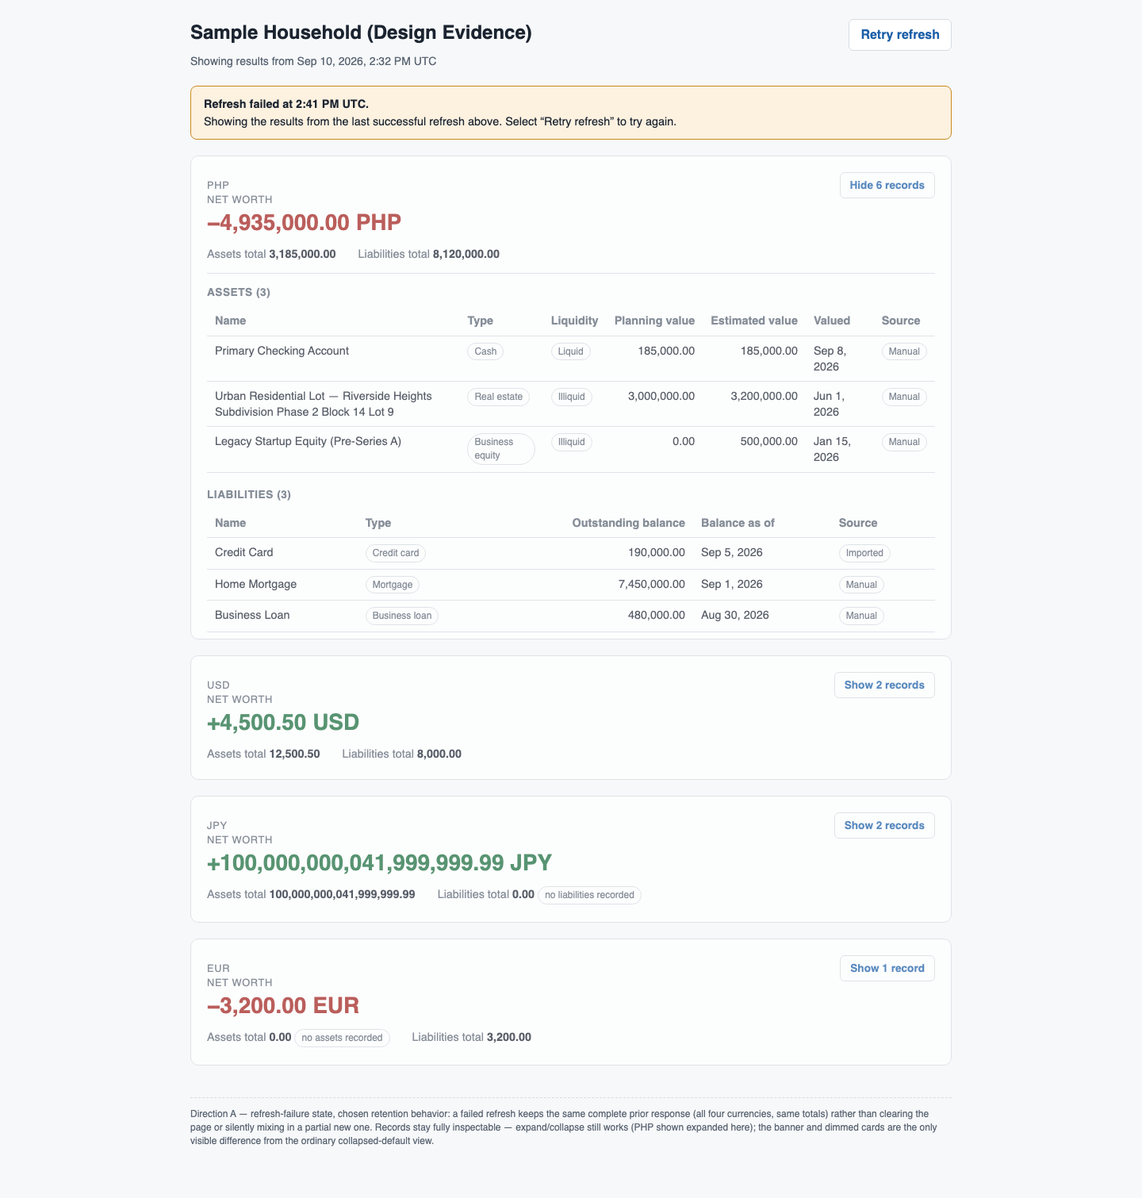
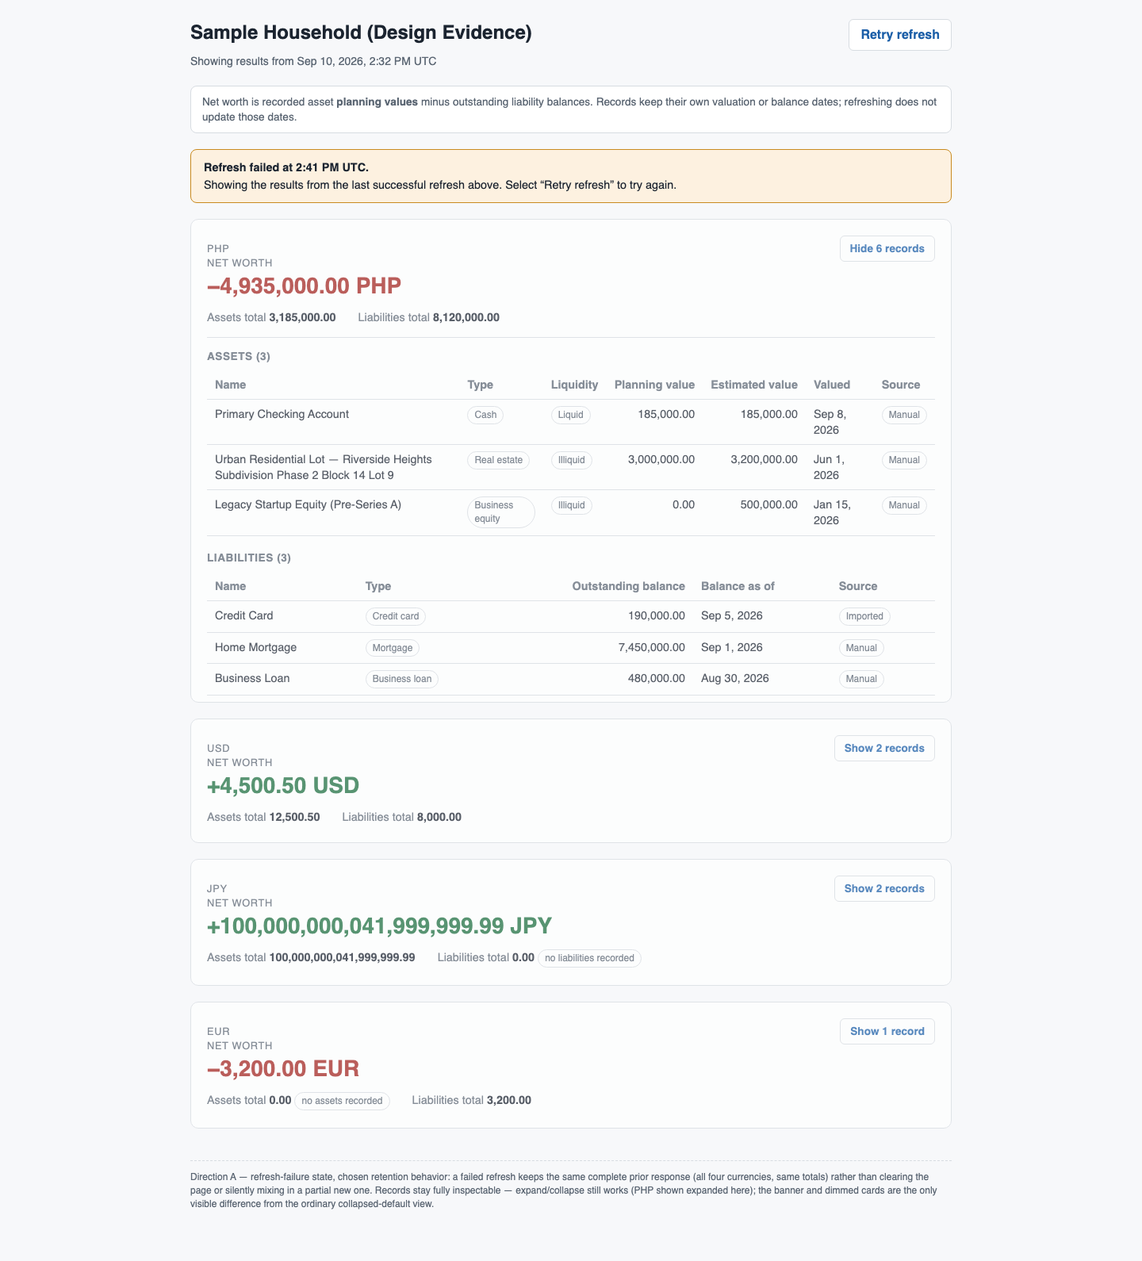
WAP-13: Revise design per independent re-review (VR-001/VR-002 evidence gaps)
Resolves Codex's second RETURNED review of PR #35 (revision 7b7dc28), which
found VR-003 and VR-004 fully resolved but VR-001 and VR-002 only partly
resolved.

- VR-001: the prior 200%-zoom evidence used Chromium's non-standard `zoom`
  CSS property at a 1280px viewport, which visually scales rendering without
  changing the CSS layout viewport media queries see — so it never actually
  exercised the 700px stacked-layout breakpoint, and the screenshot still
  showed the ordinary wide table. Replaced with a real 640px viewport
  (WCAG 1.4.10 convention for testing "a 1280px window at 200% zoom") against
  populated-expanded.html with every currency expanded, including JPY's
  extreme-precision row, explicitly documented as a viewport-reduction
  simulation rather than a literal browser-zoom capture.
- VR-002: error-refresh-failed.html was missing the always-visible explainer
  line present everywhere else, contradicting the brief's own claim; added
  it. Also corrected the explainer's wording everywhere it appears (it read
  as if liabilities also carry a "planning value," which only assets have)
  to the review's suggested precise copy.

./verify.sh: BUILD SUCCESS, 640 tests, unchanged (no application code
touched). Re-verified zero page-level horizontal overflow across all 10
evidence files at 1440/390/640px before regenerating affected screenshots.

Claude-Session: https://claude.ai/code/session_01PGY5KzWDjCzyiVoqrMSDb4

diff --git a/agent/ui/financial-position/evidence/direction-a-currency-cards/populated-expanded.html b/agent/ui/financial-position/evidence/direction-a-currency-cards/populated-expanded.html
@@ -79,7 +79,7 @@
     <button class="refresh-btn" type="button">Refresh</button>
   </header>
   <p class="status-line" role="status" aria-live="polite">Retrieved Sep 10, 2026, 2:32 PM UTC</p>
-  <p class="explainer">Net worth = assets &minus; liabilities, using each record's <strong>planning value</strong> (never its estimated value). Retrieving this page does not change a record's own valuation or balance date &mdash; each record below keeps its own date.</p>
+  <p class="explainer">Net worth is recorded asset <strong>planning values</strong> minus outstanding liability balances. Records keep their own valuation or balance dates; refreshing does not update those dates.</p>
 
   <!-- PHP: expanded, ordinary mixed currency -->
   <section class="card" aria-labelledby="php-heading">
@@ -250,13 +250,13 @@
         <div class="net-worth-label">Net worth</div>
         <div class="net-worth positive"><span class="sr-only">positive</span>100,000,000,041,999,999.99 JPY</div>
       </div>
-      <button class="toggle-btn" type="button" aria-expanded="false" aria-controls="jpy-records">Show 2 records</button>
+      <button class="toggle-btn" type="button" aria-expanded="true" aria-controls="jpy-records">Hide 2 records</button>
     </div>
     <div class="totals-row">
       <span>Assets total <span class="amount">100,000,000,041,999,999.99</span></span>
       <span>Liabilities total <span class="amount">0.00</span> <span class="badge">no liabilities recorded</span></span>
     </div>
-    <div class="records" id="jpy-records" hidden>
+    <div class="records" id="jpy-records">
       <h4>Assets (2)</h4>
       <div class="table-scroll" tabindex="0" role="region" aria-label="JPY assets, scrollable">
       <table class="stackable">
@@ -332,7 +332,7 @@
   </section>
 
   <footer class="evidence-note">
-    Direction A &mdash; expanded-record evidence (not the default state; compare <code>populated-collapsed.html</code>). PHP and EUR start expanded here to show ordinary mixed-currency records and the liabilities-only case (explicit "No assets recorded" line, not a fabricated zero-row table) side by side; USD and JPY stay collapsed for contrast. Below 700px, each record becomes a stacked card (name as title, other fields as labeled rows) instead of a horizontally scrolling table row.
+    Direction A &mdash; expanded-record evidence (not the default state; compare <code>populated-collapsed.html</code>). PHP, JPY and EUR start expanded here to show ordinary mixed-currency records, an extreme exact-decimal amount (JPY's precision-test row), and the liabilities-only case (explicit "No assets recorded" line, not a fabricated zero-row table); USD stays collapsed for contrast. Below 700px, each record becomes a stacked card (name as title, other fields as labeled rows) instead of a horizontally scrolling table row.
   </footer>
 </div>
 <script>

diff --git a/agent/ui/financial-position/evidence/direction-a-currency-cards/populated-collapsed.html b/agent/ui/financial-position/evidence/direction-a-currency-cards/populated-collapsed.html
@@ -55,7 +55,7 @@
     <button class="refresh-btn" type="button">Refresh</button>
   </header>
   <p class="status-line" role="status" aria-live="polite">Retrieved Sep 10, 2026, 2:32 PM UTC</p>
-  <p class="explainer">Net worth = assets &minus; liabilities, using each record's <strong>planning value</strong> (never its estimated value). Retrieving this page does not change a record's own valuation or balance date &mdash; expand a currency to see each record's date.</p>
+  <p class="explainer">Net worth is recorded asset <strong>planning values</strong> minus outstanding liability balances. Records keep their own valuation or balance dates; refreshing does not update those dates.</p>
 
   <section class="card" aria-labelledby="php-heading">
     <div class="card-head">

diff --git a/agent/ui/financial-position/evidence/direction-a-currency-cards/error-refresh-failed.html b/agent/ui/financial-position/evidence/direction-a-currency-cards/error-refresh-failed.html
@@ -35,6 +35,7 @@
     <button class="refresh-btn" type="button">Retry refresh</button>
   </header>
   <p class="status-line" role="status" aria-live="polite">Showing results from Sep 10, 2026, 2:32 PM UTC</p>
+  <p class="explainer">Net worth is recorded asset <strong>planning values</strong> minus outstanding liability balances. Records keep their own valuation or balance dates; refreshing does not update those dates.</p>
 
   <div class="banner" role="alert">
     <strong>Refresh failed at 2:41 PM UTC.</strong>

diff --git a/agent/ui/financial-position/design-brief.md b/agent/ui/financial-position/design-brief.md
@@ -63,7 +63,7 @@
 
 - Recommendation: **Direction A — currency-first summary cards, expandable holdings.**
 - Reasoning: it is the only direction whose default (unexpanded) view already matches the parent brief's stated two-step flow — see totals by currency, then inspect sources — without requiring the user to scan across a disconnected summary bar (Direction B) or hunt through a dense table for the subtotal row (Direction C). It also has the cleanest narrow-width behavior of the three: cards were already a stacking layout before any responsive work is added, and starting each card collapsed keeps the first mobile screen to four short headlines instead of six-plus columns of detail. Direction C's density is real but optimizes for a power-user audit action this task's parent brief does not ask for (browsing/filtering every record at once); that is better served as a later, explicit power view than as the default first screen.
-- Collapsed default (the actual first-load state): `evidence/direction-a-currency-cards/populated-collapsed.html`, `screenshots/direction-a-populated-collapsed-{wide,narrow}.png`. All four currency cards collapsed; each headline is visibly labeled "Net worth" (not screen-reader-only), and a short always-visible explainer line states that totals use recorded planning values and that retrieval time does not change a record's own date.
+- Collapsed default (the actual first-load state): `evidence/direction-a-currency-cards/populated-collapsed.html`, `screenshots/direction-a-populated-collapsed-{wide,narrow}.png`. All four currency cards collapsed; each headline is visibly labeled "Net worth" (not screen-reader-only), and a short always-visible explainer line states net worth precisely ("recorded asset planning values minus outstanding liability balances") and that retrieval time does not change a record's own date.
 - Expanded records (record-inspection evidence): `evidence/direction-a-currency-cards/populated-expanded.html`, `screenshots/direction-a-populated-expanded-{wide,narrow}.png`. Same four currencies; PHP (ordinary mixed currency) and EUR (liabilities-only — explicit empty asset side) start expanded to show record inspection for both cases side by side; USD and JPY (assets-only) stay collapsed for contrast.
 - Narrow layout (390px): each expanded record renders as a stacked card — full-width record name as the title, then labeled key/value rows for type, liquidity, values, dates and source — instead of a horizontal table row. This replaces the letter-by-letter name wrapping the first revision had (R1 below) with normally word-wrapped text at full width, and needs no horizontal scrolling at all in this evidence's widths.
 - Loading state: `evidence/direction-a-currency-cards/loading.html` / `screenshots/direction-a-loading-wide.png`. Four skeleton cards (matching the four-currency dataset), `aria-hidden`; the status line reads "Loading financial position…" via `role="status" aria-live="polite"`. No number, zero or blank total is ever rendered before real data arrives.
@@ -73,23 +73,30 @@
 - Missing configuration: `evidence/direction-a-currency-cards/configuration-missing.html` / `screenshots/direction-a-configuration-missing-wide.png`. No `HOUSEHOLD_ID` configured at all; shown before any household name is known (no card layout, no household-scoped heading).
 - Configured household not found: `evidence/direction-a-currency-cards/configuration-not-found.html` / `screenshots/direction-a-configuration-not-found-wide.png`. A distinct message from the missing-configuration case — names the specific configured ID that returned 404, since the fix differs (correct the ID vs. set one at all).
 - Keyboard-focus evidence: `screenshots/direction-a-keyboard-focus-{wide,narrow}.png` — real `Tab`-key navigation (not a simulated `:focus` state) from page load to the first record-toggle button, showing the visible focus ring.
-- 200%-zoom evidence: `screenshots/direction-a-zoom200-wide.png` — a 1280px window (the layout viewport a browser gives a page at 200% zoom is roughly its unzoomed width; here emulated directly via Chromium's `zoom: 2` on a 1280px viewport) confirmed to have zero horizontal overflow (`document.documentElement.scrollWidth === clientWidth === 1280`) and to reflow to the stacked record layout rather than requiring two-dimensional scrolling.
-- Accessibility considerations: every amount uses `font-variant-numeric: tabular-nums`; negative/positive net worth is marked with an explicit `−`/`+` glyph plus visible "NET WORTH" label text, not color or screen-reader-only text alone; expand/collapse uses real `<button>` elements with `aria-expanded`/`aria-controls`, keyboard-operable with no custom key handling needed; a horizontally-scrollable record region is a `role="region"` with `tabindex="0"` and its own `aria-label`, and gets a distinct visible focus ring so a keyboard user knows the region itself is focused before scrolling it; the status/refresh-failure line is an `aria-live` region so screen-reader users hear load/refresh outcomes without navigating to find them; visible focus rings (`:focus-visible`, 3px, not removed) on every interactive element; no fixed pixel width on any container that would break 200% browser zoom. A large exact-decimal net-worth headline (e.g. the JPY case) is a single long token with no internal spaces — it needs `overflow-wrap: anywhere` so it wraps within itself at narrow widths instead of forcing page-level horizontal scroll; verify with `document.documentElement.scrollWidth` against the viewport width, not just a visual screenshot check, since a downscaled preview image can hide overflow pixels or a barely-readable-but-technically-non-overflowing layout (R1 below).
+- 200%-zoom reflow evidence (simulation, not a literal browser-zoom capture — see R2 below): `screenshots/direction-a-reflow-200pct-640.png`, a real 640px viewport against `populated-expanded.html` with every currency's records expanded, including JPY's extreme-precision row. Per the WCAG 1.4.10 reflow-testing convention, a browser at 200% zoom gives a page a CSS layout viewport roughly half its unzoomed width, so testing "a 1280px window at 200% zoom" is done by testing a 640px viewport directly. Confirmed zero horizontal overflow (`document.documentElement.scrollWidth === clientWidth === 640`) and correct reflow into the stacked record layout, including the extreme JPY amount, at that width.
+- Accessibility considerations: every amount uses `font-variant-numeric: tabular-nums`; negative/positive net worth is marked with an explicit `−`/`+` glyph plus visible "NET WORTH" label text, not color or screen-reader-only text alone; expand/collapse uses real `<button>` elements with `aria-expanded`/`aria-controls`, keyboard-operable with no custom key handling needed; a horizontally-scrollable record region is a `role="region"` with `tabindex="0"` and its own `aria-label`, and gets a distinct visible focus ring so a keyboard user knows the region itself is focused before scrolling it; the status/refresh-failure line is an `aria-live` region so screen-reader users hear load/refresh outcomes without navigating to find them; visible focus rings (`:focus-visible`, 3px, not removed) on every interactive element; no fixed pixel width on any container that would break 200% browser zoom — verified as a reduced-layout-viewport reflow simulation (640px, see the 200%-zoom bullet above), not a literal OS/browser zoom capture; be explicit about that distinction when citing this evidence, since claiming literal browser zoom without capturing it is itself a defect (R2 below). A large exact-decimal net-worth headline (e.g. the JPY case) is a single long token with no internal spaces — it needs `overflow-wrap: anywhere` so it wraps within itself at narrow widths instead of forcing page-level horizontal scroll; verify with `document.documentElement.scrollWidth` against the viewport width, not just a visual screenshot check, since a downscaled preview image can hide overflow pixels or a barely-readable-but-technically-non-overflowing layout (R1 below).
 
 ## Revision 1 (resolves independent review VR-001 through VR-004)
 
 Codex's independent review of PR #35 (revision `9718f80`) returned `RETURNED` with three `BLOCKING` findings and one `RECOMMENDED` finding, retaining Direction A for revision. Full findings are recorded on the WAP-13 Jira issue (2026-09-10). Resolution:
 
-- **VR-001 (BLOCKING — mobile records unreadable).** At 390px, the original single horizontally-scrolling table squeezed the name column so narrow that names broke letter-by-letter ("Prima / ry / Chec / king / Acco / unt"); passing a page-level `scrollWidth` check didn't establish the *records* were usable, only that the *page* wasn't overflowing. Fixed by replacing the narrow-width table with a stacked-card record layout (`table.stackable` in `evidence/shared.css`, applied below 700px): each record becomes its own bordered block with the name as a full-width title and other fields as labeled rows, so names wrap normally instead of being squeezed into a fixed column. Added `tabindex="0"` + `role="region"` + `aria-label` to every record scroll container (for widths where horizontal scrolling could still occur) with its own visible focus ring. New evidence: `populated-expanded.html` narrow screenshots (readable stacked records), `direction-a-keyboard-focus-*.png` (real Tab-key focus), `direction-a-zoom200-wide.png` (200% zoom, confirmed no two-dimensional scrolling).
-- **VR-002 (BLOCKING — headline meaning hidden).** "Net worth" was previously only in `.sr-only` text, and the planning-value/retrieval-time explanation only existed inside expanded records (invisible by default). Fixed: every card now has a visible "NET WORTH" label above the figure, and a short always-visible explainer line ("Net worth = assets − liabilities, using each record's planning value... retrieving this page does not change a record's own valuation or balance date") sits under the status line on every populated/error state, visible without expanding anything. Added the true collapsed-default state as its own file (`populated-collapsed.html`) with wide and narrow evidence, separate from the expanded-record evidence (`populated-expanded.html`), so both are now independently reviewable.
+- **VR-001 (BLOCKING — mobile records unreadable).** At 390px, the original single horizontally-scrolling table squeezed the name column so narrow that names broke letter-by-letter ("Prima / ry / Chec / king / Acco / unt"); passing a page-level `scrollWidth` check didn't establish the *records* were usable, only that the *page* wasn't overflowing. Fixed by replacing the narrow-width table with a stacked-card record layout (`table.stackable` in `evidence/shared.css`, applied below 700px): each record becomes its own bordered block with the name as a full-width title and other fields as labeled rows, so names wrap normally instead of being squeezed into a fixed column. Added `tabindex="0"` + `role="region"` + `aria-label` to every record scroll container (for widths where horizontal scrolling could still occur) with its own visible focus ring. New evidence: `populated-expanded.html` narrow screenshots (readable stacked records), `direction-a-keyboard-focus-*.png` (real Tab-key focus). The first attempt at 200%-zoom evidence was itself found incorrect on re-review — see R2 below.
+- **VR-002 (BLOCKING — headline meaning hidden).** "Net worth" was previously only in `.sr-only` text, and the planning-value/retrieval-time explanation only existed inside expanded records (invisible by default). Fixed: every card now has a visible "NET WORTH" label above the figure, and a short always-visible explainer line sits under the status line on every populated state, visible without expanding anything. Added the true collapsed-default state as its own file (`populated-collapsed.html`) with wide and narrow evidence, separate from the expanded-record evidence (`populated-expanded.html`), so both are now independently reviewable. This revision's explainer wording was itself found imprecise on re-review (it read as if liabilities also carry a "planning value") — see R2 below.
 - **VR-003 (BLOCKING — failure/one-sided states unspecified).** Three gaps, all fixed: (1) added `error-first-load.html` for an initial network/server failure with no prior data — retry action, no fabricated card or total, distinct from the retained-stale-data case; (2) added a fourth synthetic currency, EUR, that is liabilities-only (zero asset total, explicit "No assets recorded in EUR" line, negative net worth), covering the liabilities-only case the dataset previously lacked (it only had the assets-only JPY case); (3) rebuilt the refresh-failure evidence (`error-refresh-failed.html`, renamed from `error.html`) to show the *same complete* four-currency response as the populated states with working expand/collapse (previously it silently dropped the JPY group and had no record controls at all); (4) split the configuration state into two distinct files/messages — `configuration-missing.html` (nothing configured) and `configuration-not-found.html` (a specific configured ID returned 404, named in the message) — rather than one generic message covering both.
 - **VR-004 (RECOMMENDED — process assurances in household copy).** Removed engineering-assurance phrasing from on-screen text (e.g. "this view never estimates or fabricates a starting balance", "this page never invents household data") from `empty.html` and `configuration-missing.html`; that reasoning now lives only in this brief and its evidence-note footers, not in copy a household would read. Also: the stale PR reference to the retired `implementation-log.md` no longer applies — that file (root and feature-local alike) was removed from the repository entirely in a separate, unrelated change; the PR description here has been corrected to stop citing it.
+
+## Revision 2 (resolves re-review VR-001/VR-002 evidence gaps)
+
+Codex's independent re-review of PR #35 (revision `7b7dc28`) returned `RETURNED` again (2026-09-11), finding VR-003 and VR-004 fully resolved but VR-001 and VR-002 only partly resolved — the design fixes themselves were sound, but two pieces of evidence were wrong or incomplete:
+
+- **VR-001 (PARTLY RESOLVED → resolved — wrong zoom-evidence technique).** Revision 1's `direction-a-zoom200-wide.png` used Chromium's non-standard `zoom` CSS property at a 1280px viewport, claiming it demonstrated 200%-zoom reflow. On re-review this was caught as incorrect: `zoom` visually scales rendering without changing the CSS layout viewport that media queries evaluate against, so it never actually exercised the 700px stacked-layout breakpoint — the screenshot still showed the ordinary wide table. Fixed by removing that file and technique entirely and replacing it with `screenshots/direction-a-reflow-200pct-640.png`: a real 640px viewport (the WCAG 1.4.10 convention for testing "a 1280px window at 200% zoom," since browser zoom roughly halves the CSS layout viewport) against `populated-expanded.html` with **every** currency expanded, including JPY's extreme-precision row — so the fix is evidenced for both ordinary names and the hardest amount case together. Verified `scrollWidth === clientWidth === 640` (zero overflow) and correct reflow into the stacked-card layout. This is explicitly documented as a viewport-reduction *simulation* of 200% zoom, not a literal OS/browser zoom capture, per the review's own guidance on how to represent whichever technique is actually used.
+- **VR-002 (PARTLY RESOLVED → resolved — refresh-failure state missing the explainer, and imprecise wording).** Two gaps: (1) `error-refresh-failed.html` never got the always-visible explainer line Revision 1 added everywhere else, contradicting the brief's own claim that it appeared on every populated/error state — fixed by adding the identical `.explainer` element to that file, screenshot refreshed; (2) the explainer's wording ("using each record's planning value") was imprecise — only assets have a `planningValue` field; liabilities use `outstandingBalance` — so as written it implied liabilities also carry a "planning value." Fixed by replacing the wording everywhere the explainer appears (`populated-collapsed.html`, `populated-expanded.html`, `error-refresh-failed.html`) with the review's suggested precise copy: "Net worth is recorded asset planning values minus outstanding liability balances. Records keep their own valuation or balance dates; refreshing does not update those dates." All three affected screenshots were regenerated.
 
 ## Acceptance criteria
 
 - [x] At least two distinct directions have reviewable wide/narrow evidence and articulated tradeoffs against the parent outcome — three directions, `evidence/screenshots/direction-{a,b,c}-populated-{wide,narrow}.png`.
 - [x] All information, states and financial distinctions in the parent brief appear in the design specification, including large exact amounts (JPY `100,000,000,041,999,999.99` net worth), multiple currencies (PHP/USD/JPY/EUR), an assets-only currency (JPY) and a liabilities-only currency (EUR, explicit empty asset side), negative net worth (PHP, EUR), and long names (the Riverside Heights lot, now legible at 390px as a stacked-card title).
-- [x] Interaction and accessibility behavior is concrete enough for a fresh implementation conversation; error/refresh retention behavior is chosen and evidenced explicitly, including the first-load (no prior data) case; keyboard-focus and 200%-zoom evidence added this revision.
+- [x] Interaction and accessibility behavior is concrete enough for a fresh implementation conversation; error/refresh retention behavior is chosen and evidenced explicitly, including the first-load (no prior data) case; keyboard-focus and 200%-zoom-reflow evidence present and verified correct (R2 corrected the zoom technique after re-review).
 - [ ] Product Owner records the chosen direction, rationale, amendments and APPROVED status in this brief. **Pending — this revision awaits a new independent review.**
 - [x] No production UI or backend code, dependencies or household data changes are introduced — only static HTML/CSS evidence files and this markdown brief.
 - [x] Design PR and brief contain evidence and canonical `./verify.sh` results (`BUILD SUCCESS`, `Tests run: 574, Failures: 0, Errors: 0, Skipped: 0` — unchanged from `main`, since this task changed no application code); design-task acceptance is distinct from final UI acceptance and is recorded on the Jira issue, not claimed here.
@@ -97,7 +104,7 @@ Codex's independent review of PR #35 (revision `9718f80`) returned `RETURNED` wi
 ## Decision
 
 - Selected direction: *(pending Product Owner review)*
-- Amendments: *(pending — revision 1 above resolves the prior RETURNED findings; awaiting a new review)*
+- Amendments: *(pending — revisions 1 and 2 above resolve the prior RETURNED findings; awaiting a new review)*
 - Approved by Product Owner Agent: *(pending)*
 - Approved at: *(pending)*
 
